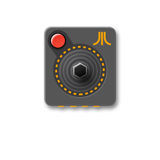
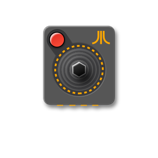
show 2D image button in arch

diff --git a/arch/source/app.cpp b/arch/source/app.cpp
@@ -11,12 +11,10 @@
 #include "utils.h"
 #include "config.h"
 
-#define MAIN_WINDOW_PADDING 10
-
 bool gRunning = true;
 char gCorePath[SCE_FIOS_PATH_MAX] = {0};
 
-App::App() : _index(0)
+App::App() : _index_x(0), _index_y(0)
 {
     LogFunctionName;
 
@@ -95,7 +93,8 @@ App::App() : _index(0)
         {
             if (gConfig->last_core == button->_cores[j].boot_name)
             {
-                _index = i;
+                _index_x = i % (_buttons.size() / ROW_COUNT);
+                _index_y = i / (_buttons.size() / ROW_COUNT);
                 button->_index = j;
                 found = true;
                 break;
@@ -143,17 +142,21 @@ void App::_Show()
 
     ImGui::Begin("Emu4Vita++ v" APP_VER_STR, NULL, ImGuiWindowFlags_NoCollapse | ImGuiWindowFlags_NoResize | ImGuiWindowFlags_HorizontalScrollbar | ImGuiWindowFlags_NoInputs);
     My_Imgui_ShowTimePower();
-    ImGui::SetCursorPos({0, (ImGui::GetContentRegionMax().y - BUTTON_SIZE) / 2});
+    ImVec2 pos = ImGui::GetWindowPos();
+    ImGui::SetCursorPos({pos.x, (ImGui::GetContentRegionMax().y - BUTTON_SIZE * 2) / 2 + 10});
+    ImGui::Columns(_buttons.size() / ROW_COUNT, NULL, false);
     size_t count = 0;
+    size_t index = _GetIndex();
     for (auto button : _buttons)
     {
-        bool selected = (count == _index);
+        bool selected = (count == index);
         button->Show(selected);
         if (selected)
         {
             ImGui::SetScrollHereX(float(count) / float(_buttons.size()));
         }
-        ImGui::SameLine();
+
+        ImGui::NextColumn();
         count++;
     }
 
@@ -170,8 +173,12 @@ void App::SetInputHooks(Input *input)
 {
     input->SetKeyDownCallback(SCE_CTRL_LEFT, std::bind(&App::_OnKeyLeft, this, input), true);
     input->SetKeyDownCallback(SCE_CTRL_RIGHT, std::bind(&App::_OnKeyRight, this, input), true);
+    input->SetKeyDownCallback(SCE_CTRL_UP, std::bind(&App::_OnKeyUp, this, input), true);
+    input->SetKeyDownCallback(SCE_CTRL_DOWN, std::bind(&App::_OnKeyDown, this, input), true);
     input->SetKeyDownCallback(SCE_CTRL_LSTICK_LEFT, std::bind(&App::_OnKeyLeft, this, input), true);
     input->SetKeyDownCallback(SCE_CTRL_LSTICK_RIGHT, std::bind(&App::_OnKeyRight, this, input), true);
+    input->SetKeyDownCallback(SCE_CTRL_LSTICK_UP, std::bind(&App::_OnKeyUp, this, input), true);
+    input->SetKeyDownCallback(SCE_CTRL_LSTICK_DOWN, std::bind(&App::_OnKeyDown, this, input), true);
     input->SetKeyDownCallback(SCE_CTRL_L1, std::bind(&App::_OnKeyLeft, this, input), true);
     input->SetKeyDownCallback(SCE_CTRL_R1, std::bind(&App::_OnKeyRight, this, input), true);
     input->SetKeyUpCallback(SCE_CTRL_CIRCLE, std::bind(&App::_OnClick, this, input));
@@ -181,8 +188,12 @@ void App::UnsetInputHooks(Input *input)
 {
     input->UnsetKeyDownCallback(SCE_CTRL_LEFT);
     input->UnsetKeyDownCallback(SCE_CTRL_RIGHT);
+    input->UnsetKeyDownCallback(SCE_CTRL_UP);
+    input->UnsetKeyDownCallback(SCE_CTRL_DOWN);
     input->UnsetKeyDownCallback(SCE_CTRL_LSTICK_LEFT);
     input->UnsetKeyDownCallback(SCE_CTRL_LSTICK_RIGHT);
+    input->UnsetKeyDownCallback(SCE_CTRL_LSTICK_UP);
+    input->UnsetKeyDownCallback(SCE_CTRL_LSTICK_DOWN);
     input->UnsetKeyDownCallback(SCE_CTRL_L1);
     input->UnsetKeyDownCallback(SCE_CTRL_R1);
     input->UnsetKeyUpCallback(SCE_CTRL_CIRCLE);
@@ -190,16 +201,31 @@ void App::UnsetInputHooks(Input *input)
 
 void App::_OnKeyLeft(Input *input)
 {
-    LOOP_MINUS_ONE(_index, _buttons.size());
+    LOOP_MINUS_ONE(_index_x, _buttons.size() / ROW_COUNT);
 }
 
 void App::_OnKeyRight(Input *input)
 {
-    LOOP_PLUS_ONE(_index, _buttons.size());
+    LOOP_PLUS_ONE(_index_x, _buttons.size() / ROW_COUNT);
+}
+
+void App::_OnKeyUp(Input *input)
+{
+    LOOP_MINUS_ONE(_index_y, ROW_COUNT);
+}
+
+void App::_OnKeyDown(Input *input)
+{
+    LOOP_PLUS_ONE(_index_y, ROW_COUNT);
 }
 
 void App::_OnClick(Input *input)
 {
     LogFunctionName;
-    _buttons[_index]->OnActive(input);
+    _buttons[_GetIndex()]->OnActive(input);
+}
+
+size_t App::_GetIndex()
+{
+    return _index_y * _buttons.size() / ROW_COUNT + _index_x;
 }

diff --git a/script/gen_arch_icon.py b/script/gen_arch_icon.py
@@ -1,12 +1,16 @@
 from PIL import Image
 from pathlib import Path
 
+ICON_SIZE = 128
+IMGAE_SIZE = 158
+PASTE_POS = (IMGAE_SIZE - ICON_SIZE) // 2
+
 for path in Path('icons').glob("*.png"):
     print(path)
     dst = '../arch/pkg/data/' + path.name.replace('_', '/')
     im = Image.open(path)
     w, h = im.size
-    _im = im.resize((128, h * 128 // w))
-    im = Image.new('RGBA', (160, 160))
-    im.paste(_im, (16, 16))
+    _im = im.resize((ICON_SIZE, h * ICON_SIZE // w))
+    im = Image.new('RGBA', (IMGAE_SIZE, IMGAE_SIZE))
+    im.paste(_im, (PASTE_POS, PASTE_POS))
     im.save(dst)

diff --git a/arch/source/app.h b/arch/source/app.h
@@ -21,8 +21,12 @@ private:
     void _OnClick(Input *input);
     void _OnKeyLeft(Input *input);
     void _OnKeyRight(Input *input);
+    void _OnKeyUp(Input *input);
+    void _OnKeyDown(Input *input);
+    size_t _GetIndex();
 
     Input _input;
     std::vector<CoreButton *> _buttons;
-    size_t _index;
+    size_t _index_x;
+    size_t _index_y;
 };

diff --git a/arch/source/defines.h b/arch/source/defines.h
@@ -6,4 +6,6 @@
 #define APP_LOG_PATH APP_DATA_DIR "/Emu4Vita++.log"
 #define APP_CONFIG_PATH APP_DATA_DIR "/config.ini"
 
-#define BUTTON_SIZE 160
+#define BUTTON_SIZE 158
+#define MAIN_WINDOW_PADDING 10
+#define ROW_COUNT 2
